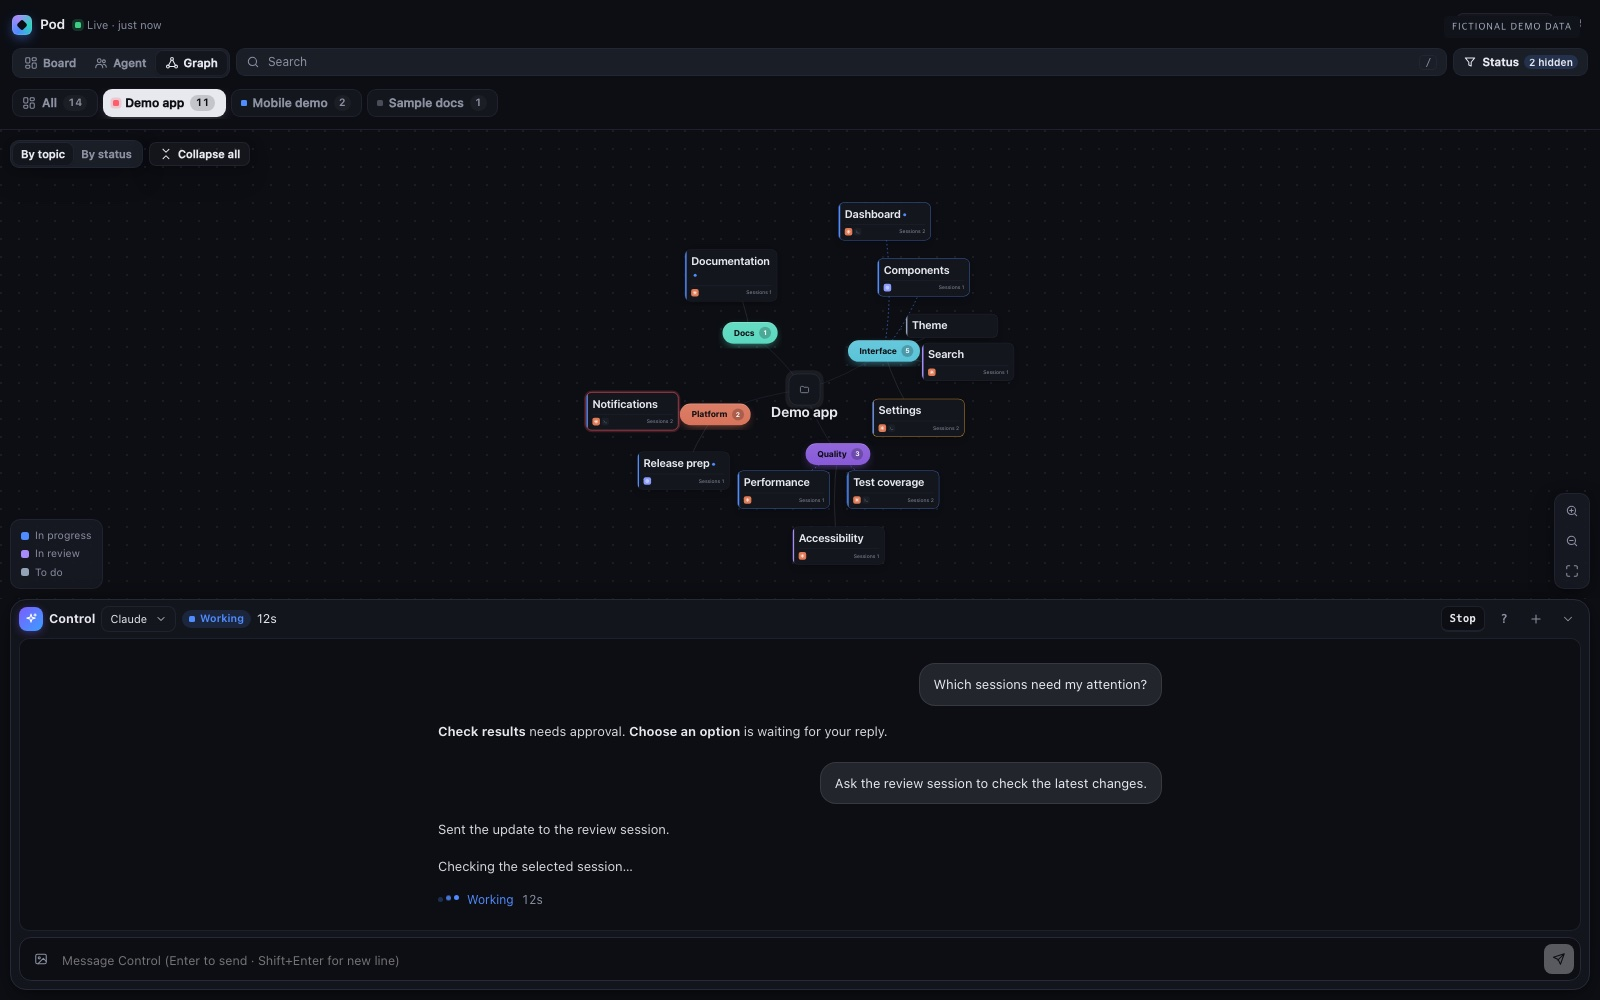
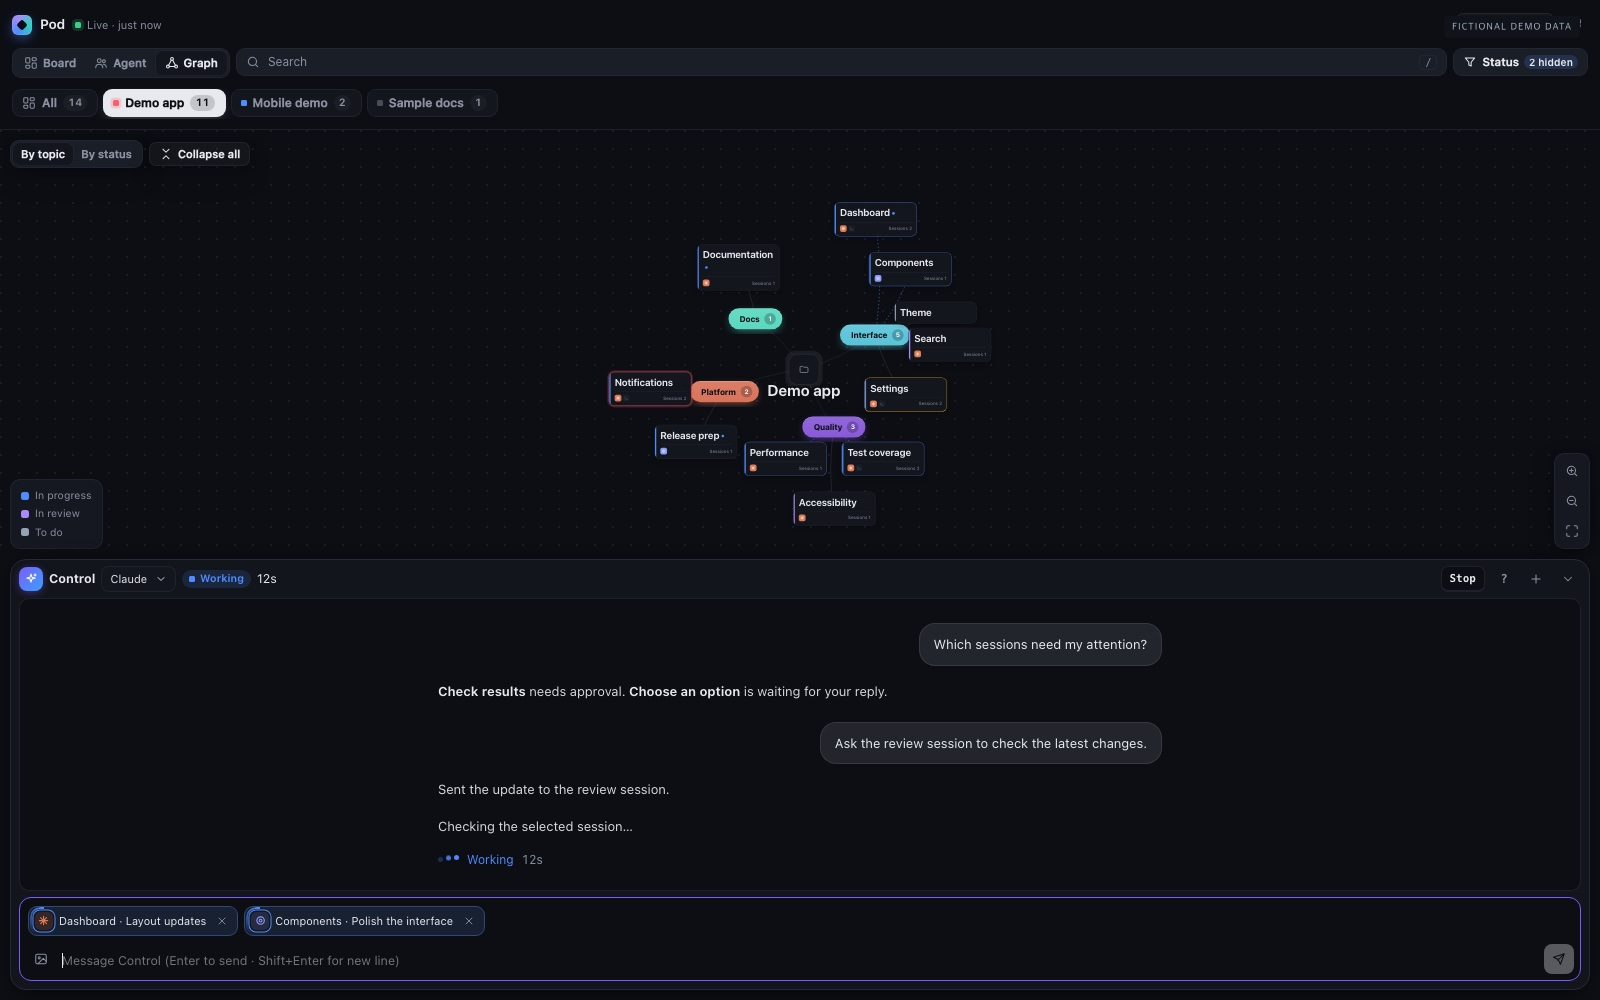
Pod 0.3.2 — Show selected Control targets as compact agent chips

diff --git a/src/panel/controller.ts b/src/panel/controller.ts
@@ -3,13 +3,13 @@
 import { t, tt } from './i18n'
 import { CONTROL_AGENTS, type ControlProvider, type ControlAgentOption } from '../control-agents'
 import type { AgentView, Snapshot, WorkspaceView } from '../model'
-import { topicPath } from '../model'
 import type { ChatItem } from '../transcript'
 import { attachments } from './attach'
+import { addTarget, controlMessage, ControlMessageTooLongError, MissingControlTargetError, resolveTarget, targetKey, type ControlTarget } from './control-targets'
 import { renderChat } from './chat'
 import { fly, shake } from './fx'
 import { closeMenu, openMenu, type MenuItem } from './overlays'
-import { clip, duration, fill, h, icon } from './ui'
+import { avatar, clip, duration, fill, h, icon } from './ui'
 
 export interface ControllerApi {
   snap(): Snapshot | null
@@ -28,16 +28,6 @@ export interface ControlView {
   sessionId: string | null
   error: string | null
   rev?: number
-}
-
-/** 관제 입력창에 넣는 세션·워크스페이스 참조. 관제는 지도(map.json)에서 이 이름·핸들로 찾는다. */
-export function refOf(snap: Snapshot | null, w: WorkspaceView, a?: AgentView): string {
-  const repo = snap?.repos.find((r) => r.id === w.repoId)
-  const topic = repo && w.topic ? topicPath(repo.topics, w.topic) : ''
-  const where = [repo?.name, topic, w.name].filter(Boolean).join(' › ')
-  if (!a) return t(`[워크스페이스 {where}]`, { where })
-  const how = a.terminal ? t(`터미널 {terminal}`, { terminal: a.terminal }) : t('대화창')
-  return t(`[세션 {where} / {title} · {how} · ID {key}]`, { where, title: a.title, how, key: a.key })
 }
 
 const OPEN_KEY = 'pod.dock.open'
@@ -59,11 +49,35 @@ export function createController(api: ControllerApi) {
   const area = h('textarea', { rows: 1, placeholder: t('관제에게 (Enter 보내기 · Shift+Enter 줄바꿈)') }) as HTMLTextAreaElement
   const send = h('button', { class: 'send', title: t('보내기 (Enter)'), disabled: true }, icon('send')) as HTMLButtonElement
   const composer = h('div', { class: 'composer stack dk-composer' })
+  const targetTray = h('div', { class: 'dk-targets', hidden: true, 'aria-label': t('선택한 대상') })
+  let targets: ControlTarget[] = []
   let sending = false
   let changingProvider = false
-  const syncSend = () => (send.disabled = sending || changingProvider || view.busy || (!area.value.trim() && pics.count() === 0))
+  const syncSend = () => {
+    send.disabled = sending || changingProvider || view.busy || (!area.value.trim() && pics.count() === 0)
+    targetTray.querySelectorAll<HTMLButtonElement>('button').forEach(button => button.disabled = sending)
+  }
+  function renderTargets(): void {
+    targetTray.hidden = targets.length === 0
+    targetTray.replaceChildren(...targets.map(target => {
+      const resolved = resolveTarget(api.snap(), target)
+      const w = resolved?.workspace
+      const a = resolved?.agent
+      const name = w?.name ?? t('세션')
+      const label = a ? `${name} · ${a.title}` : name
+      return h('div', { class: 'dk-target', 'data-target-key': targetKey(target), title: [w?.repo, name, a?.title].filter(Boolean).join(' › ') },
+        a ? avatar(a, 'sm') : icon('folder'),
+        h('span', { class: 'dk-target-label' }, label),
+        h('button', { type: 'button', class: 'dk-target-remove', title: t('대상 빼기'), 'aria-label': t('{name} 빼기', { name: label }), disabled: sending, onClick: () => {
+          if (sending) return
+          targets = targets.filter(item => targetKey(item) !== targetKey(target))
+          renderTargets()
+          area.focus()
+        } }, icon('x')))
+    }))
+  }
   const pics = attachments(composer, area, { call: (n, i, q) => api.call(n, i, q), toast: (m, k) => api.toast(m, k), onChange: syncSend })
-  composer.append(pics.tray, h('div', { class: 'composer-row' }, pics.button, area, send))
+  composer.append(targetTray, pics.tray, h('div', { class: 'composer-row' }, pics.button, area, send))
   el.append(head, previewEl, chatBox, composer)
   previewEl.addEventListener('click', () => setOpen(true))
 
@@ -86,13 +100,18 @@ export function createController(api: ControllerApi) {
     pics.lock(true)
     try {
       const said = area.value.trim() || t(`사진 {n}장`, { n: pics.count() })
+      const text = controlMessage(api.snap(), targets, area.value)
       const images = await pics.images()
-      await api.call('pod.control.send', { text: area.value, images })
+      await api.call('pod.control.send', { text, images })
       fly(area.getBoundingClientRect(), head.getBoundingClientRect(), said)
       area.value = ''
       pics.clear()
+      targets = []
+      renderTargets()
       stick = true
-    } catch {
+    } catch (error) {
+      if (error instanceof MissingControlTargetError) api.toast(t('선택한 대상을 찾을 수 없어요. 다시 선택해 주세요.'), 'err')
+      if (error instanceof ControlMessageTooLongError) api.toast(t('내용이 너무 길어요. 대상이나 메시지를 줄여 주세요.'), 'err')
     } finally {
       sending = false
       area.readOnly = false
@@ -283,7 +302,7 @@ export function createController(api: ControllerApi) {
       h(
         'ol',
         null,
-        h('li', null, t('그래프 카드의 세션 줄에 올리거나 세션 목록을 열고 '), h('span', { class: 'dk-key' }, '✦'), t(' 버튼을 누르면 그 세션이 입력창에 들어가요.')),
+        h('li', null, t('그래프 카드의 세션 줄에 올리거나 세션 목록을 열고 '), h('span', { class: 'dk-key' }, '✦'), t(' 버튼을 누르면 대상 칩이 추가돼요.')),
         h('li', null, t('할 말을 이어 쓰고 '), h('span', { class: 'dk-key' }, 'Enter'), t('. 줄바꿈은 '), h('span', { class: 'dk-key' }, 'Shift+Enter'), t(', 사진은 붙여넣기·끌어놓기.')),
         h('li', null, t('이름으로 말해도 돼요. 대상이 애매하면 관제가 되물어요.'))
       ),
@@ -352,19 +371,16 @@ export function createController(api: ControllerApi) {
       if (el.classList.contains('off')) return
       area.focus()
     },
-    /** 세션·워크스페이스 참조를 입력창에 넣는다. */
+    /** 대상은 칩으로 모으고 사용자가 작성 중인 글은 그대로 둔다. */
     insert(w: WorkspaceView, a?: AgentView) {
-      const ref = refOf(api.snap(), w, a)
-      area.value = area.value.trim() ? `${area.value.trimEnd()}\n${ref} ` : `${ref} `
+      if (sending) return
+      targets = addTarget(targets, { workspaceId: w.id, sessionKey: a?.key ?? null })
+      renderTargets()
       syncSend()
-      if (el.classList.contains('off')) api.toast(t('관제에 넣었습니다'))
-      else {
-        area.focus()
-        // 넣었다는 걸 입력창이 반짝여 알린다.
-        composer.classList.remove('got-ref')
-        void composer.offsetWidth
-        composer.classList.add('got-ref')
-      }
+      area.focus()
+      composer.classList.remove('got-ref')
+      void composer.offsetWidth
+      composer.classList.add('got-ref')
       area.setSelectionRange(area.value.length, area.value.length)
     }
   }

diff --git a/src/control-targets.test.ts b/src/control-targets.test.ts
@@ -1,0 +1,53 @@
+import { assert, test } from 'orca/testing'
+import type { AgentView, Snapshot, WorkspaceView } from './model'
+import { addTarget, controlMessage, ControlMessageTooLongError, MissingControlTargetError, resolveTarget, targetKey } from './panel/control-targets'
+
+function fixture(): Snapshot {
+  const agent = (key: string) => ({ key, title: 'Review', type: 'claude', terminal: `term-${key}` }) as AgentView
+  const workspace = (id: string) => ({ id, name: 'Dashboard', repoId: 'repo', topic: null, agents: [agent('first'), agent('second')] }) as WorkspaceView
+  return { repos: [{ id: 'repo', name: 'Demo', topics: [] }], workspaces: { one: workspace('one'), two: workspace('two') } } as unknown as Snapshot
+}
+
+test('관제 대상은 이름이 같아도 ID로 구분하고 같은 세션은 중복 추가하지 않는다', () => {
+  const first = { workspaceId: 'one', sessionKey: 'first' }
+  const list = addTarget([], first)
+  assert.equal(addTarget(list, { ...first }), list)
+  assert.equal(addTarget(list, { ...first, sessionKey: 'second' }).length, 2)
+  assert.equal(addTarget(list, { ...first, workspaceId: 'two' }).length, 2)
+  assert.ok(targetKey(first) !== targetKey({ ...first, sessionKey: null }))
+})
+
+test('관제 전송 시에만 최신 대상 정보와 정확한 ID를 본문에 넣고 작성한 지시는 보존한다', () => {
+  const snap = fixture()
+  snap.workspaces.one.name = 'Renamed workspace'
+  snap.workspaces.one.agents[0].title = 'Renamed session'
+  const targets = [{ workspaceId: 'one', sessionKey: 'first' }, { workspaceId: 'two', sessionKey: 'second' }]
+  const message = controlMessage(snap, targets, 'Check these changes\nthen report back')
+  assert.ok(message.includes('Renamed workspace'))
+  assert.ok(message.includes('Renamed session'))
+  assert.ok(message.includes('ID first]'))
+  assert.ok(message.includes('ID second]'))
+  assert.ok(message.includes('term-first'))
+  assert.ok(message.endsWith('Check these changes\nthen report back'))
+  assert.equal(targets.length, 2)
+})
+
+test('사라진 세션은 같은 이름의 다른 세션으로 바꾸거나 일부 대상만 보내지 않는다', () => {
+  const snap = fixture()
+  snap.workspaces.one.agents.shift()
+  const missing = { workspaceId: 'one', sessionKey: 'first' }
+  assert.equal(resolveTarget(snap, missing), null)
+  assert.throws(() => controlMessage(snap, [{ workspaceId: 'two', sessionKey: 'first' }, missing], 'Review'), error => error instanceof MissingControlTargetError)
+  assert.throws(() => controlMessage(null, [missing], 'Review'), error => error instanceof MissingControlTargetError)
+})
+
+test('워크스페이스 칩은 워크스페이스 ID를 보내고 대상 없는 일반 메시지는 그대로 보낸다', () => {
+  assert.equal(controlMessage(null, [], '  Keep this draft  '), '  Keep this draft  ')
+  const message = controlMessage(fixture(), [{ workspaceId: 'one', sessionKey: null }], 'Summarize')
+  assert.ok(message.includes('ID one]'))
+  assert.ok(message.endsWith('Summarize'))
+})
+
+test('대상 참조를 포함한 메시지가 워커 제한을 넘으면 ID가 잘리지 않도록 막는다', () => {
+  assert.throws(() => controlMessage(fixture(), [{ workspaceId: 'one', sessionKey: 'first' }], 'a'.repeat(20_000)), error => error instanceof ControlMessageTooLongError)
+})

diff --git a/src/panel/control-targets.ts b/src/panel/control-targets.ts
@@ -1,0 +1,48 @@
+import type { AgentView, Snapshot, WorkspaceView } from '../model'
+import { topicPath } from '../model'
+import { t } from './i18n'
+
+export interface ControlTarget {
+  workspaceId: string
+  sessionKey: string | null
+}
+
+export const targetKey = (target: ControlTarget): string => JSON.stringify([target.workspaceId, target.sessionKey])
+
+export function addTarget(targets: ControlTarget[], next: ControlTarget): ControlTarget[] {
+  return targets.some(target => targetKey(target) === targetKey(next)) ? targets : [...targets, next]
+}
+
+export function resolveTarget(snap: Snapshot | null, target: ControlTarget): { workspace: WorkspaceView; agent?: AgentView } | null {
+  const workspace = snap?.workspaces[target.workspaceId]
+  if (!workspace) return null
+  if (target.sessionKey === null) return { workspace }
+  const agent = workspace.agents.find(agent => agent.key === target.sessionKey)
+  return agent ? { workspace, agent } : null
+}
+
+/** IDs stay out of the editor; expand exact references only when submitting. */
+export function refOf(snap: Snapshot | null, w: WorkspaceView, a?: AgentView): string {
+  const repo = snap?.repos.find(repo => repo.id === w.repoId)
+  const topic = repo && w.topic ? topicPath(repo.topics, w.topic) : ''
+  const where = [repo?.name, topic, w.name].filter(Boolean).join(' › ')
+  if (!a) return t(`[워크스페이스 {where} · ID {id}]`, { where, id: w.id })
+  const how = a.terminal ? t(`터미널 {terminal}`, { terminal: a.terminal }) : t('대화창')
+  return t(`[세션 {where} / {title} · {how} · ID {key}]`, { where, title: a.title, how, key: a.key })
+}
+
+export class MissingControlTargetError extends Error {}
+export class ControlMessageTooLongError extends Error {}
+
+export function controlMessage(snap: Snapshot | null, targets: ControlTarget[], text: string): string {
+  if (!targets.length) return text
+  const refs = targets.map(target => {
+    const resolved = resolveTarget(snap, target)
+    if (!resolved) throw new MissingControlTargetError('Selected Control target is no longer available')
+    return refOf(snap, resolved.workspace, resolved.agent)
+  })
+  const message = [...refs, text].join('\n')
+  // The worker accepts at most 20,000 characters; never silently truncate a target ID.
+  if (message.length > 20_000) throw new ControlMessageTooLongError('Control message exceeds 20,000 characters')
+  return message
+}

diff --git a/src/panel/style.css b/src/panel/style.css
@@ -4588,6 +4588,36 @@ body.row-dragging [data-drop].drop-over {
 }
 
 /* ---------- 관제 줄 ---------- */
+.dk-targets {
+  display: flex;
+  flex-wrap: wrap;
+  gap: 6px;
+  max-height: 96px;
+  overflow: auto;
+  padding: 2px;
+}
+
+.dk-targets[hidden] { display: none; }
+
+.dk-target {
+  display: flex;
+  align-items: center;
+  gap: 6px;
+  max-width: min(280px, 100%);
+  min-width: 0;
+  padding: 4px 5px 4px 6px;
+  border: 1px solid color-mix(in srgb, var(--ring) 30%, var(--border));
+  border-radius: 9px;
+  background: color-mix(in srgb, var(--ring) 9%, var(--card));
+}
+
+.dk-target > .av, .dk-target > .i { flex: none; width: 18px; height: 18px; }
+.dk-target-label { min-width: 0; overflow: hidden; text-overflow: ellipsis; white-space: nowrap; font-size: 11px; }
+.dk-target-remove { display: grid; place-items: center; width: 20px; height: 20px; flex: none; border-radius: 5px; color: var(--muted); }
+.dk-target-remove .i { width: 12px; height: 12px; }
+.dk-target-remove:hover { color: var(--fg); background: var(--hover); }
+.dk-target-remove:disabled { opacity: 0.4; }
+
 .dock.control {
   padding-top: 6px;
 }

diff --git a/src/panel/i18n-en.ts b/src/panel/i18n-en.ts
@@ -1,6 +1,13 @@
 // 영어 사전. 키는 한국어 원문(i18n.ts 의 t() 에 넘기는 문구와 정확히 같아야 한다), 값은 영어. `{이름}` 자리표시자는 그대로 둔다.
 // 워커가 보내는 오류·메모 문구(worker.ts·runtime.ts·transcript.ts·model.ts)도 패널이 표시할 때 번역하므로 여기에 둔다.
 export const EN: Record<string, string> = {
+  " 버튼을 누르면 대상 칩이 추가돼요.": " to add a target chip.",
+  "선택한 대상": "Selected targets",
+  "대상 빼기": "Remove target",
+  "{name} 빼기": "Remove {name}",
+  "선택한 대상을 찾을 수 없어요. 다시 선택해 주세요.": "A selected target is no longer available. Select it again.",
+  "내용이 너무 길어요. 대상이나 메시지를 줄여 주세요.": "The message is too long. Remove some targets or shorten it.",
+  "[워크스페이스 {where} · ID {id}]": "[Workspace {where} · ID {id}]",
   "요청이 실패했습니다": "Request failed",
   "완료!": "Done!",
   "불러오지 못했습니다": "Could not load",

diff --git a/README.md b/README.md
@@ -11,7 +11,7 @@ Pod brings your repositories, topics, workspaces, and agent sessions onto one ma
 - **Explore the graph.** Group workspaces by topic or status, collapse groups, zoom, and drag cards between topics.
 - **Find sessions that need you.** The board and agent views surface approval requests, unanswered questions, and active sessions.
 - **Work inside the map.** Open a session window, read Claude conversations, and view terminal output. Control stays available while you read.
-- **Coordinate with Control.** Ask for a status update or relay a message to a selected session. Use the ✦ button on a session row to add its reference to the input.
+- **Coordinate with Control.** Ask for a status update or relay a message to a selected session. Use the ✦ button on a session row to add a compact target chip.
 - **Keep things organized.** Create topics and subtopics, start sessions, edit workspace notes, and close leftover terminal tabs.
 
 ## A closer look
@@ -58,7 +58,7 @@ Review the permissions shown by Orca before approving the plugin. Keep a develop
 1. Open **Pod** in the Orca sidebar.
 2. Choose a repository and switch between **Graph**, **Board**, and **Agent** views.
 3. Click a workspace or session to open its window.
-4. Use the session's ✦ button to add it to Control, then write what you want to send.
+4. Use the session's ✦ button to add a target chip to Control, then write what you want to send. Add multiple targets or remove individual chips with ×; selecting a target keeps your draft intact.
 
 | Shortcut | Action |
 | --- | --- |
